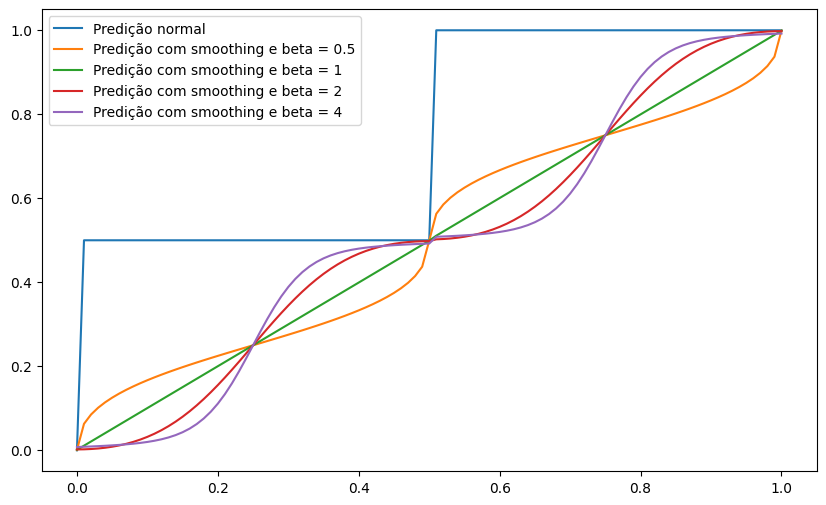
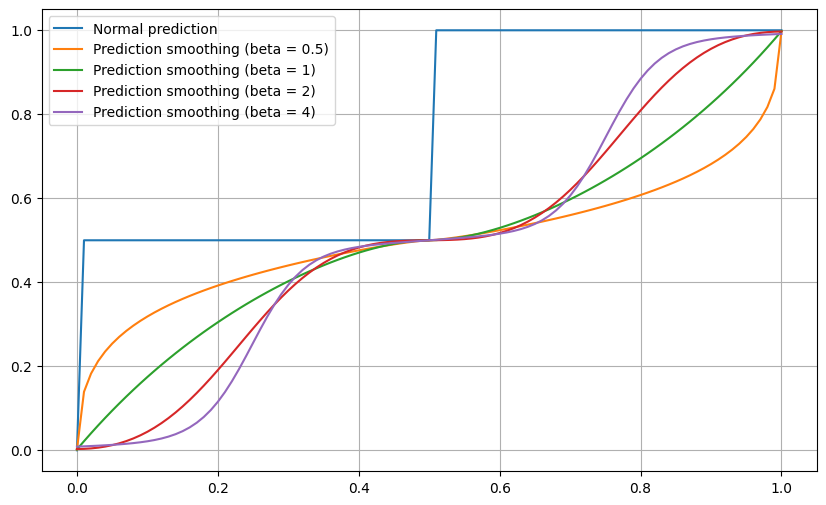
Version: 0.0.4 - 14-09-2025 - 21:43

diff --git a/build/lib/free_decision_tree/free_decision_tree.py b/build/lib/free_decision_tree/free_decision_tree.py
@@ -206,7 +206,7 @@ Output: {self.output}
             self.__dt_with_y:pd.DataFrame = self.__dt_with_y.reset_index(drop = True)
 
         results:list = []
-        n_neighbors:int = len(self.X) + 1 if n_neighbors == None else n_neighbors
+        n_neighbors:int = len(self.__dt_with_y) if n_neighbors == None else n_neighbors #len(self.X) + 1 if n_neighbors == None else n_neighbors
         for i in range(len(X)):
             line_temporary = X[self.X].iloc[i]
             

diff --git a/free_decision_tree/free_decision_tree.py b/free_decision_tree/free_decision_tree.py
@@ -206,7 +206,7 @@ Output: {self.output}
             self.__dt_with_y:pd.DataFrame = self.__dt_with_y.reset_index(drop = True)
 
         results:list = []
-        n_neighbors:int = len(self.X) + 1 if n_neighbors == None else n_neighbors
+        n_neighbors:int = len(self.__dt_with_y) if n_neighbors == None else n_neighbors #len(self.X) + 1 if n_neighbors == None else n_neighbors
         for i in range(len(X)):
             line_temporary = X[self.X].iloc[i]
             

diff --git a/README.md b/README.md
@@ -88,7 +88,7 @@ Instead of returning only the raw leaf output, it:
 
 Parameters:
 - **`X_test`** (`pd.DataFrame`): Input data for prediction.
-- **`n_neighbors`** (`int`, optional): Number of neighbors to consider; defaults to `len(features) + 1`.
+- **`n_neighbors`** (`int`, optional): Number of neighbors to consider; defaults to `len(leafs)`.
 - **`alpha`** (`float`, default=`0.001`): Smoothing factor to stabilize weights.
 - **`beta`** (`float`, default=`2`): Regularization factor.
 
@@ -179,6 +179,54 @@ plt.show()
 ```
 
 ![ex_plot_smooth_2](images/example_2.png)
+
+```python
+import pandas as pd
+import matplotlib.pyplot as plt
+from mpl_toolkits.mplot3d import Axes3D
+from random import random, seed
+import numpy as np
+
+
+# Dados
+seed(1)
+df = pd.DataFrame({"a": [*[0, 1, 0, 1], *[1 + random() - 0.5 for _ in range(10)]],
+                   "b": [*[0, 0, 1, 1], *[1 + random() - 0.5 for _ in range(10)]],
+                   "c": [*[0, 1, -1, 2], *[2 + random() / 10 for _ in range(10)]]})
+
+model = DecisionTree(data = df, y = "c", max_depth = 2, min_samples = 1)
+model.plot_tree()
+
+df_test = pd.DataFrame({"a": [(i / 101) % 2 - 1 for i in range(5000)],
+                        "b": [(i / 107) % 2 - 1for i in range(5000)]})
+
+def plot_3d(df, y, title):
+    fig = plt.figure(figsize=(8, 6))
+    ax = fig.add_subplot(111, projection='3d')
+    ax.scatter(df["a"], df["b"], y, c=y, cmap='viridis', alpha=0.8)
+    ax.set_xlabel("a")
+    ax.set_ylabel("b")
+    ax.set_zlabel("Predição")
+    ax.set_title(title)
+    plt.show()
+
+y = model.predict(df_test)
+plot_3d(df_test, y, "Decision Tree")
+
+y = model.predict_smooth(df_test, beta=1, representatives = True)
+plot_3d(df_test, y, "Decision Tree Smooth (beta = 1)")
+
+y = model.predict_smooth(df_test, beta=2, representatives = True)
+plot_3d(df_test, y, "Decision Tree Smooth (beta = 2)")
+```
+
+![ex_plot_smooth_3](images/example_5.png)
+
+![ex_plot_smooth_3](images/example_6.png)
+
+![ex_plot_smooth_3](images/example_7.png)
+
+![ex_plot_smooth_3](images/example_8.png)
 
 ---
 
